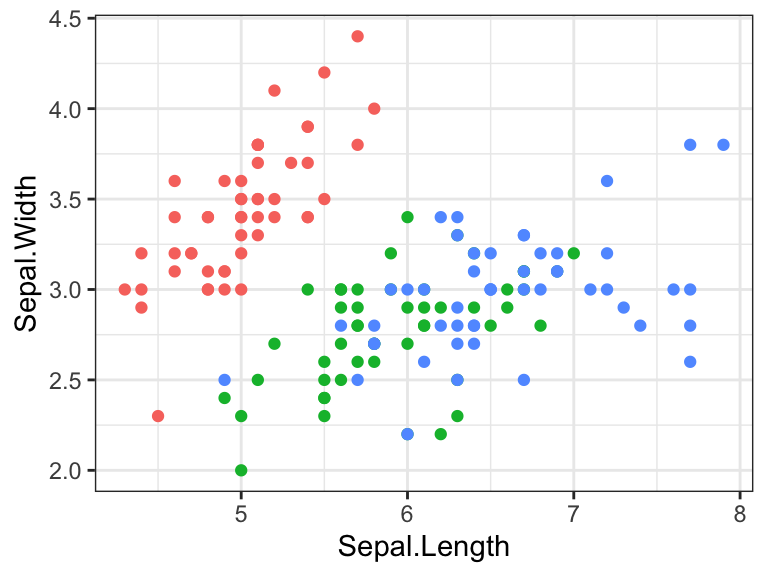
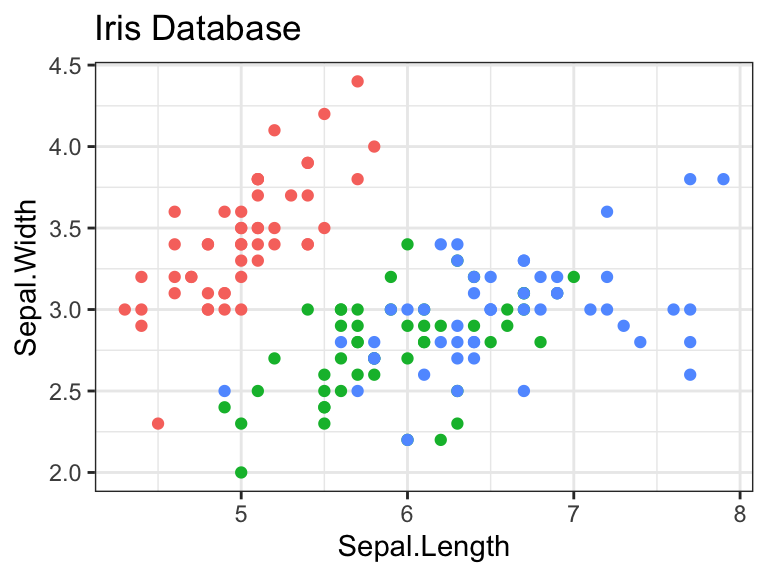
31c

diff --git a/notes/r.html b/notes/r.html
@@ -361,13 +361,14 @@ window.Quarto = {
 <span id="cb6-6"><a href="#cb6-6" aria-hidden="true" tabindex="-1"></a></span>
 <span id="cb6-7"><a href="#cb6-7" aria-hidden="true" tabindex="-1"></a>library(tidyverse)</span>
 <span id="cb6-8"><a href="#cb6-8" aria-hidden="true" tabindex="-1"></a>ggplot(iris, aes(Sepal.Length, Sepal.Width, color=Species))+</span>
-<span id="cb6-9"><a href="#cb6-9" aria-hidden="true" tabindex="-1"></a>  geom_point(show.legend=FALSE)</span></code><button title="Copy to Clipboard" class="code-copy-button"><i class="bi"></i></button></pre></div>
+<span id="cb6-9"><a href="#cb6-9" aria-hidden="true" tabindex="-1"></a>  geom_point(show.legend=FALSE)+</span>
+<span id="cb6-10"><a href="#cb6-10" aria-hidden="true" tabindex="-1"></a>  ggtitle("From Iris Database")</span></code><button title="Copy to Clipboard" class="code-copy-button"><i class="bi"></i></button></pre></div>
 <div class="cell page-columns page-full" data-cap-location="margin">
 <div class="cell-output-display page-columns page-full">
 <div class="quarto-figure quarto-figure-center page-columns page-full">
 <figure class="figure page-columns page-full">
 <p><img src="r_files/figure-html/unnamed-chunk-4-1.png" class="img-fluid figure-img" width="384"></p>
-<figcaption class="margin-caption">Figure half the width</figcaption>
+<figcaption class="margin-caption">Note: Figure half the width.</figcaption>
 </figure>
 </div>
 </div>
